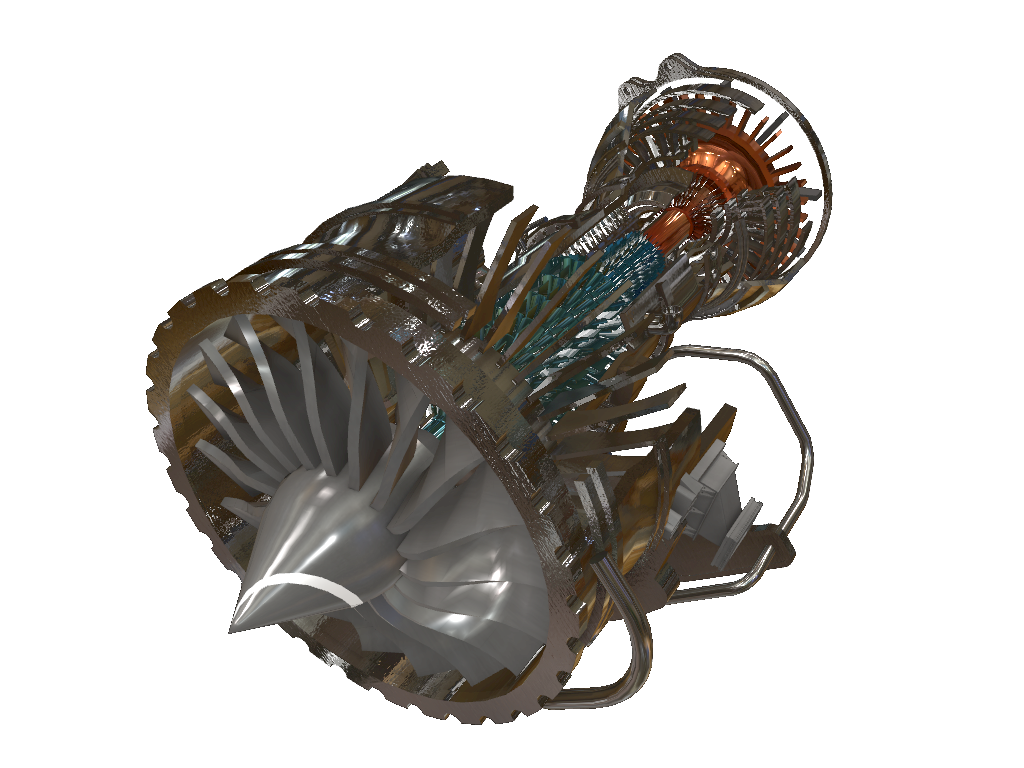
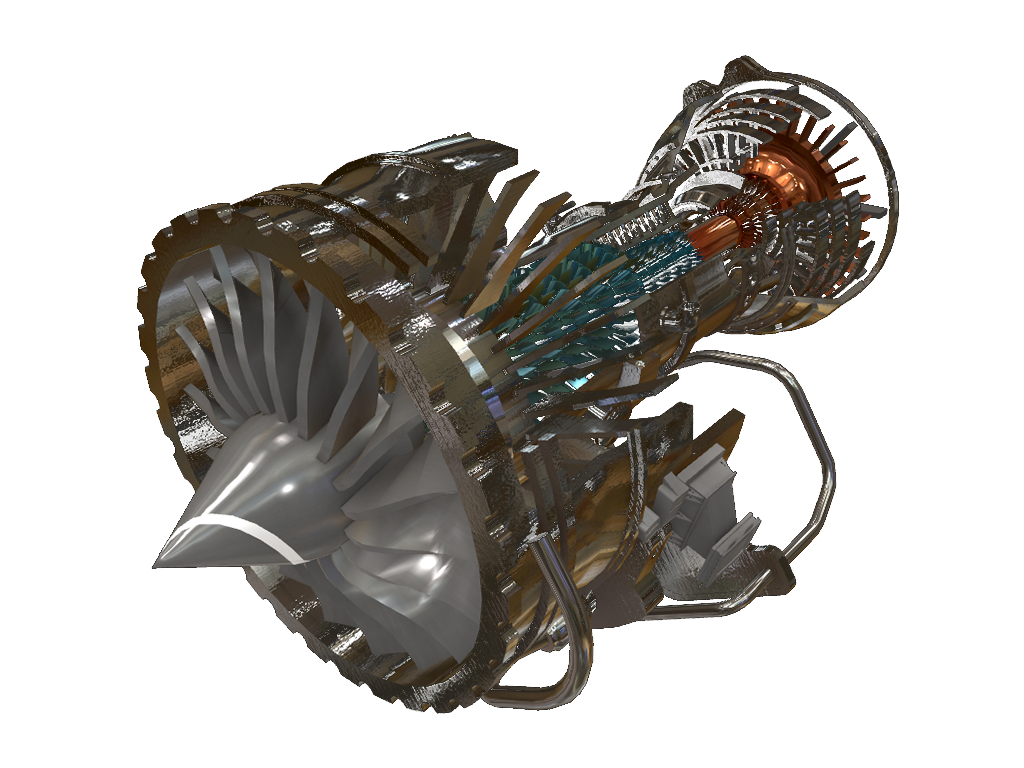
xiugai

Changed region(s): [[0.125, 0.0625, 0.875, 0.9688]]

diff --git a/components/More/MPage2.vue b/components/More/MPage2.vue
@@ -27,17 +27,12 @@
                 数字孪生园区平台，为泛园区行业提供数字化转型新动力，覆盖初期规划、营销展示、建设监管、物业运营的园区全生命周期。
               </div>
               <div class="fc">
-                <a
-                  href="https://www.kantu3d.com/preview/sichuanPark/index.html"
-                  target="_blank"
-                  rel="noopener noreferrer"
-                  class="div1"
-                >
+                <div class="div1" @click="showToast">
                   <img
                     src="@/assets/images/main/连接.png"
                     alt=""
-                  />绵阳新兴投资控股智慧园区
-                </a>
+                  />某投资控股智慧园区
+                </div>
                 <a
                   href="https://www.kantu3d.com/demo/2205/tuowei/dist/"
                   target="_blank"
@@ -47,7 +42,7 @@
                   <img
                     src="@/assets/images/main/连接.png"
                     alt=""
-                  />拓维园区大数据平台
+                  />某园区大数据平台
                 </a>
               </div>
             </div>
@@ -61,17 +56,19 @@
                 工业制造是现代工厂信息化发展晋级的阶段性成果，是建立在数字化工厂的基础上的升级，利用物联网和设备监控等技术加强信息管理和服务能力，集智能化设备、技术、系统为一体，实现高效、高控生产，减少人工干预，合理规划/优化生产进度等环节，构建智能高效、节能环保的智慧工厂
               </div>
               <div class="fc">
-                <a
+                <div class="div1" @click="showToast">
+                  <img
+                    src="@/assets/images/main/连接.png"
+                    alt=""
+                  />某迪产线数据可视化中心
+                </div>
+                <!-- <a
                   href="https://www.kantu3d.com/demo/2205/BYD/"
                   target="_blank"
                   rel="noopener noreferrer"
                   class="div1"
                 >
-                  <img
-                    src="@/assets/images/main/连接.png"
-                    alt=""
-                  />比亚迪产线数据可视化中心
-                </a>
+                </a> -->
               </div>
             </div>
           </swiper-slide>
@@ -85,17 +82,14 @@
                 、应用碎片化为标准，积极布局钢筋翻样、精细管理、材料管理等成熟领域，开拓三维工地、模架产品、劳务验收、云资料等孵化产品，并延伸到智能安全帽、工地平板等施工业务硬件领域。实现工地联合监管。
               </div>
               <div class="fc">
-                <a
-                  href="https://www.kantu3d.com/preview/cisdiScreen/"
-                  target="_blank"
-                  rel="noopener noreferrer"
-                  class="div3"
+                <div
+                  class="div1" @click="showToast"
                 >
                   <img
                     src="@/assets/images/main/连接.png"
                     alt=""
                   />中科院·科学中心一期工程
-                </a>
+                </div>
               </div>
             </div>
           </swiper-slide>
@@ -164,9 +158,10 @@
 
 <script>
 import Card from "@/components/base/Card.vue";
+import toast from "@/mixin/toast";
 // import animateMix from "@/mixin/animateMix.js";
 export default {
-  // mixins: [animateMix],
+  mixins: [toast],
   components: {
     Card,
   },
@@ -357,6 +352,7 @@ export default {
       font-weight: bold;
       padding: 0 .9375rem;
       font-size: .875rem;
+      cursor: pointer;
       img {
         width: 1.1875rem;
         height: 1.4375rem;

diff --git a/pages/Home/About.vue b/pages/Home/About.vue
@@ -23,7 +23,11 @@
           </div>
         </div>
         <div class="mian-right">
-          <canvas id="view3" class="canvasBox"></canvas>
+          <div class="img_box">
+            <img class="light" src="@/assets/images/main/BOX.png" alt="">
+            <img class="img" src="@/assets/images/main/5555.png" alt="">
+          </div>
+          <!-- <canvas id="view3" class="canvasBox"></canvas> -->
         </div>
       </div>
       <div class="mian-bottom fadeInUp">
@@ -103,7 +107,7 @@
               <img src="@/assets/images/main/二维码.png" alt="" />
             </div>
             <div class="data-phone">
-              电话(微信同号)：158 2628 9334 <br />
+              电话：023-86154556<br/>手机(微信同号)：158 2628 9334<br/>
               <!-- 微信：158 2628 9334 <br /> -->
               重庆市九龙坡区石桥铺渝高大厦F座17楼1706-1707
             </div>
@@ -173,8 +177,26 @@ iframe {
 .mian-right {
   flex: 1;
   // width: 47.8125rem;
-  height: 100%;
+  height: 43.4375rem;
   // // background-color: #4d4d4d;
+  text-align: center;
+  .img_box {
+    display: inline-block;
+    height: 100%;
+    position: relative;
+    .light {
+      position: absolute;
+      top: 0;
+      height: 13.85rem;
+      right: 4.8rem;
+      animation: lightAnimate 5s linear infinite alternate;
+      opacity: .5;
+    }
+    .img {
+      height: 100%;
+      border: none;
+    }
+  }
 }
 .mian-bottom {
   width: 101.25rem;
@@ -225,8 +247,11 @@ iframe {
   width: 43.4375rem;
   border: .3125rem solid #4d4d4d;
   border-radius: 0;
+  overflow: hidden;
   img{
-    height: 100%;
+    width: 100%;
+    display: block;
+    margin: 0 auto;
   }
 }
 .img-data {
@@ -260,6 +285,14 @@ iframe {
     font-size: .875rem;
   }
 }
+@keyframes lightAnimate {
+  0% {
+    top: 0;
+  }
+  100% {
+    top: 58%
+  }
+}
 </style>
 <script>
 import Card from "@/components/base/Card.vue";
@@ -275,7 +308,7 @@ export default {
   mounted() {
     document.body.scrollTop = document.documentElement.scrollTop = 0;
     console.log(document.documentElement.scrollTop);
-    this.getmx(); 
+    // this.getmx(); 
   },
   methods: {
     handlemore() {

diff --git a/components/Main/Page1.vue b/components/Main/Page1.vue
@@ -1,7 +1,7 @@
 <template>
-  <Card  class="flex items-center">
-    <div class="flex justify-between" style="width: 100%; height: 100%; flex: 1;" >
-      <div style="position: relative;width: 42.375rem; height: 80%;">
+  <Card class="flex items-center">
+    <div class="flex justify-between items-center" style="width: 100%; height: 100%; flex: 1;" >
+      <div style="position: relative;width: 50%; height: 80%;">
         <swiper :options="swiperOptionP1" style="width: 100%; height: 100%;" >
           <swiper-slide v-for="item in swiperDataP1" :key="item.index">
             <div class="display-box fadeInUp fast">
@@ -24,7 +24,7 @@
           </div>
       </div>
       <div class="canvas">
-        <img class="img" src="@/assets/images/main/3333.png" alt="">
+        <img class="img" src="@/assets/images/main/fdj.gif" alt="">
         <!-- <canvas id="view1" ref="view1" class="canvasBox"></canvas> -->
       </div>
     </div>
@@ -58,8 +58,11 @@
 }
 .canvas {
   flex: 1;
+  display: flex;
+  align-items: center;
+  justify-content: center;
   .img {
-    width: 100%;
+    width: 855px;
   }
 }
 </style>

diff --git a/components/Main/Page2.vue b/components/Main/Page2.vue
@@ -1,7 +1,7 @@
 <template>
   <Card class="flex items-center">
     <div class="flex justify-between flexmain" style="flex: 1;">
-      <div style="width: 40%;margin-right: 2%">
+      <div style="width: 45%;margin-right: 5%">
         <div>
           <div class="text-3xl sm:h-20 md:h-40 fadeInUp">数字孪生</div>
           <div class="h-20 fadeInUp">
@@ -31,6 +31,7 @@
       </div>
       <div class="canvas">
         <img class="img" src="@/assets/images/main/1111.png" alt="">
+        <img class="img1" src="@/assets/images/main/11111.png" alt="">
         <!-- <canvas id="view2" class="canvasBox"></canvas> -->
       </div>
     </div>
@@ -101,8 +102,27 @@
 }
 .canvas {
   flex: 1;
+  position: relative;
   .img {
     width: 100%;
+    position: absolute;
+    left: 0;
+    top: 0;
+  }
+  .img1 {
+    width: 100%;
+    position: absolute;
+    left: 0;
+    top: 0;
+    animation: imgAnimetion 3s linear infinite alternate;
+  }
+}
+@keyframes imgAnimetion {
+  0% {
+    transform: translateY(5px);
+  }
+  100% {
+    transform: translateY(-20px);
   }
 }
 </style>

diff --git a/mixin/animateMix.js b/mixin/animateMix.js
@@ -15,13 +15,13 @@ export default {
     //   this.wowContainer.init();
     // }
     this.fadeUpIn = gsap.from(".fadeInUp", {
-      marginTop: 200,
-      duration: 1,
+      transform: 'translateY(200px)',
+      duration: .8,
       opacity: 0,
     });
     this.fadeUpIn2 = gsap.from(".fadeInUp2", {
-      marginTop: 200,
-      duration: 1,
+      transform: 'translateY(200px)',
+      duration: .8,
       opacity: 0,
       delay: 1.2,
     });

diff --git a/components/Footer.vue b/components/Footer.vue
@@ -22,7 +22,7 @@
           </div>
         </div>
         <div class="mian-conter">
-          地址：重庆市九龙坡区石桥铺渝高大厦F座17楼1706-1707<br />电话(微信同号)：158 2628 9334
+          地址：重庆市九龙坡区石桥铺渝高大厦F座17楼1706-1707<br />电话：023-86154556<br/>手机(微信同号)：158 2628 9334
         </div>
         <div class="mian-right">
           <el-form

diff --git a/mixin/toast.js b/mixin/toast.js
@@ -1,0 +1,12 @@
+export default {
+  methods: {
+    showToast() {
+      this.$alert('请联系客服查看演示项目', '温馨提示', {
+        confirmButtonText: '确定',
+        callback: action => {
+          
+        }
+      });
+    }
+  }
+}

diff --git a/pages/Home/Cases.vue b/pages/Home/Cases.vue
@@ -215,8 +215,8 @@
   }
 }
 .mian {
-  width: 100%;
-  margin: auto;
+  width: 78.1875rem;
+  margin: 0 auto;
   background-color: transparent;
   overflow: auto;
   .mian-data {
